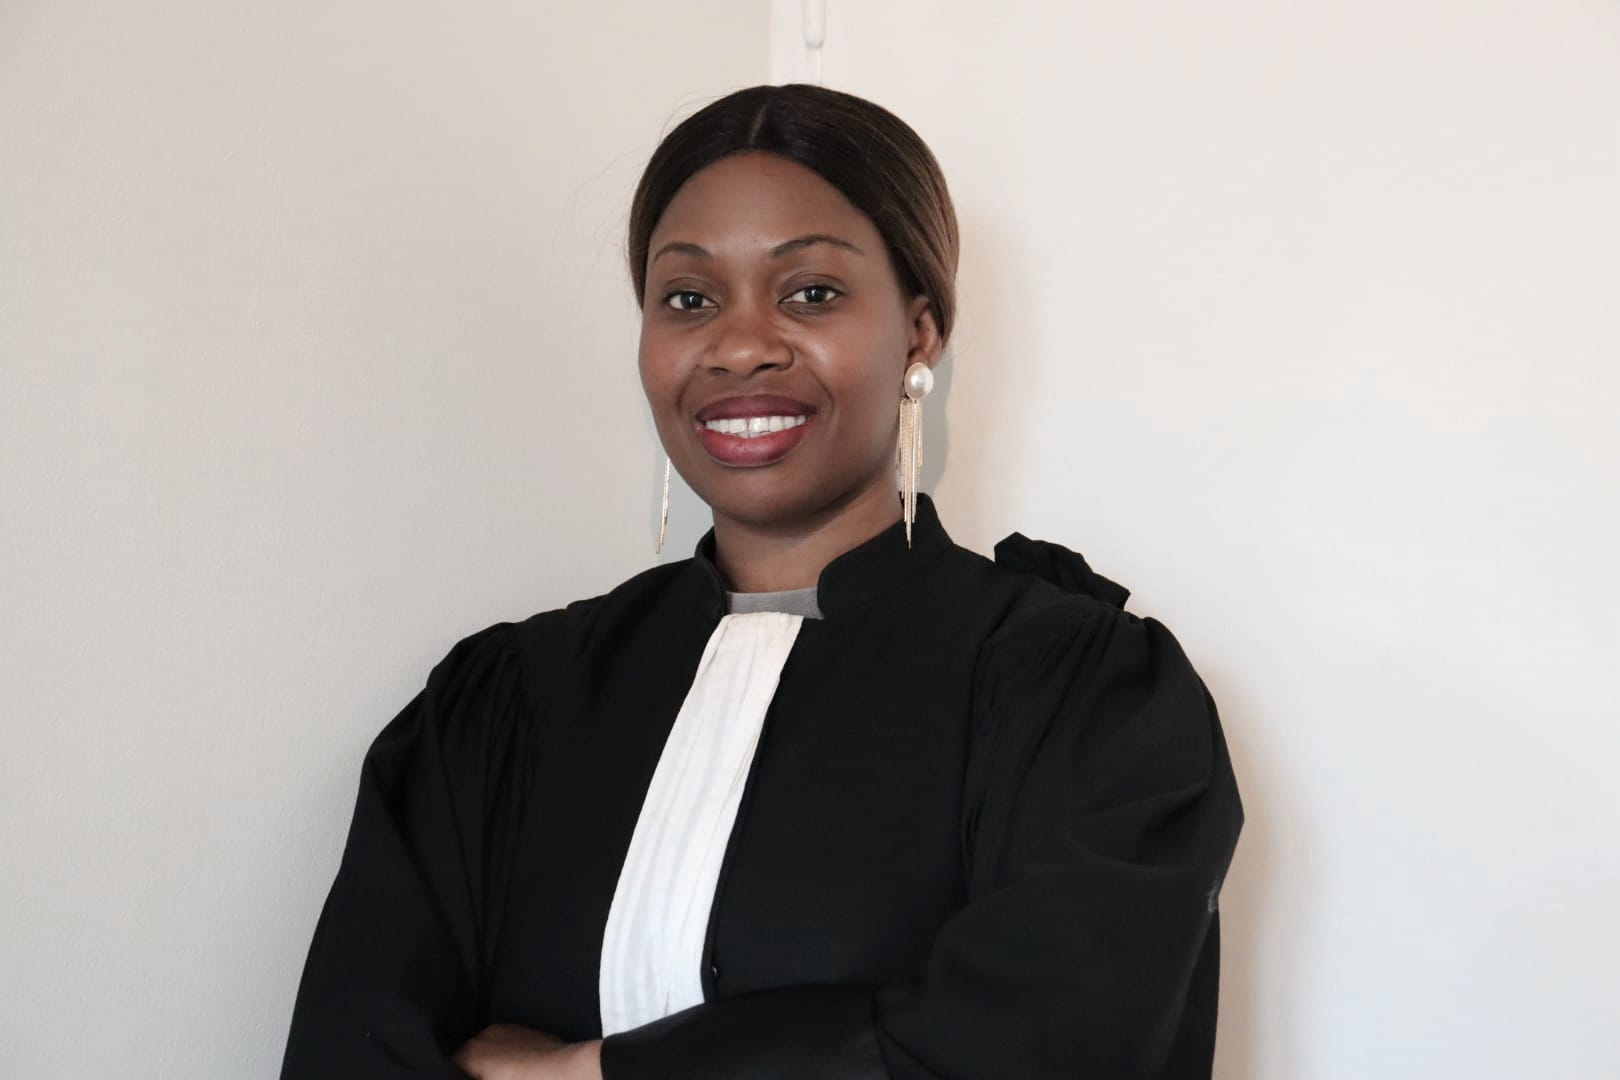
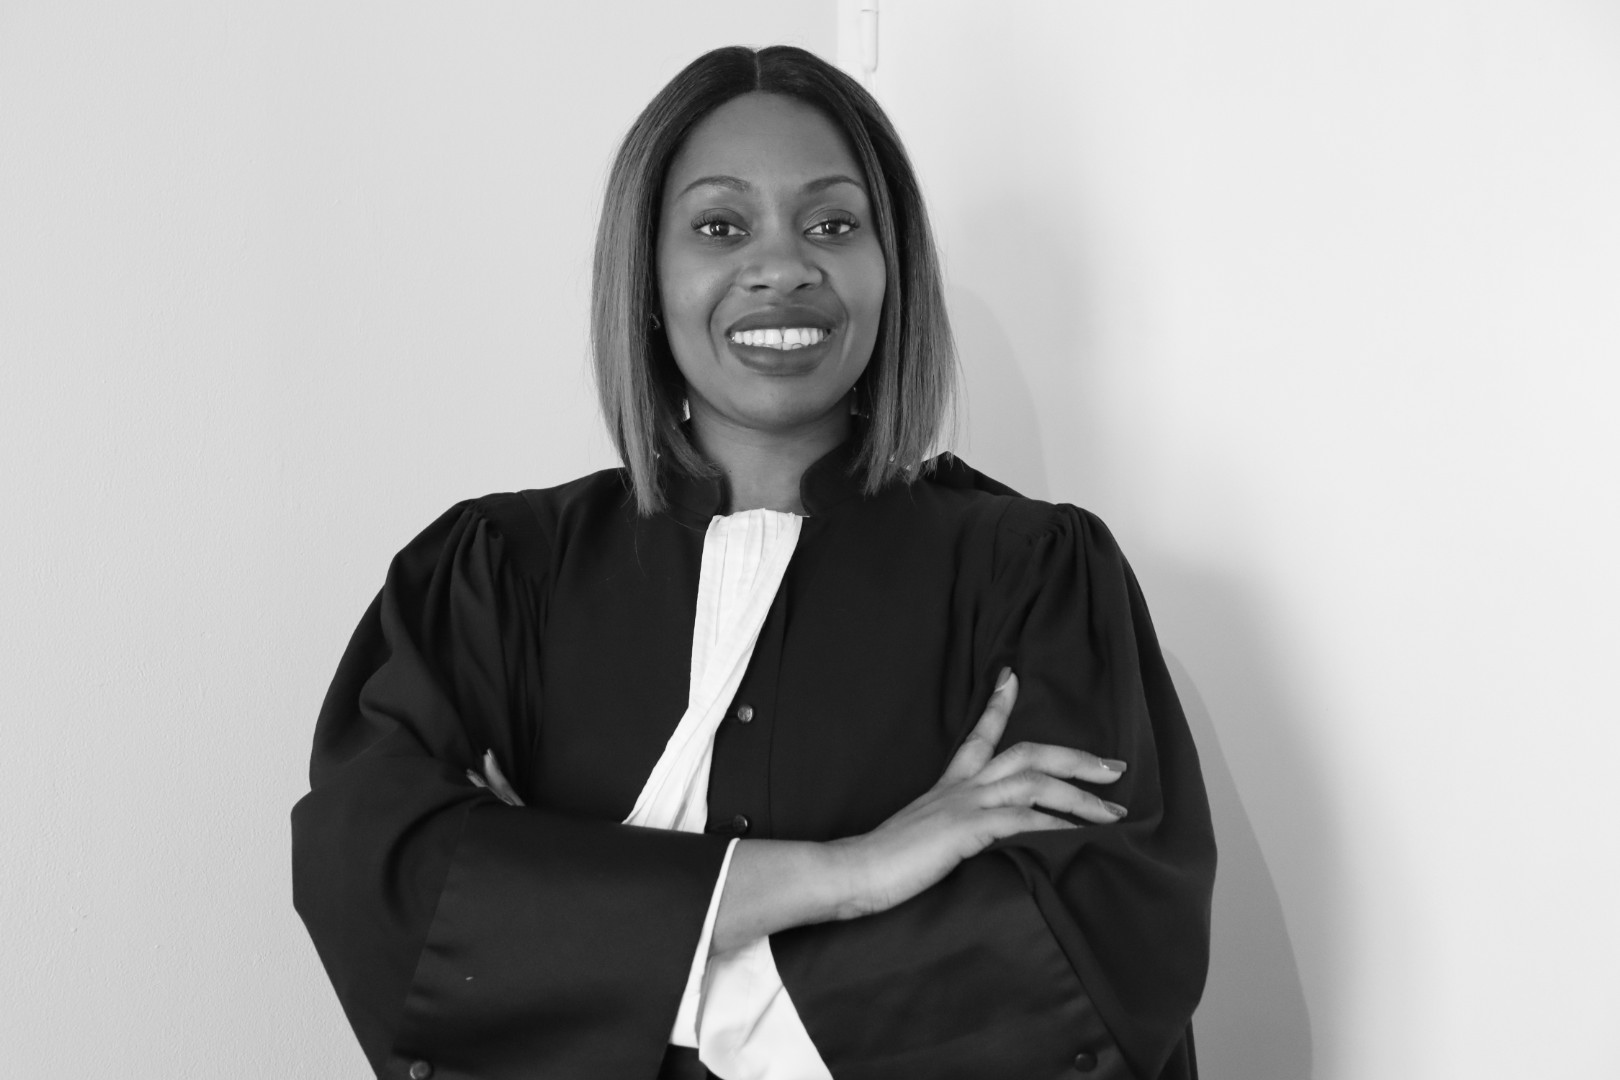
feat: update site imagery

diff --git a/src/styles/responsive/_global.scss b/src/styles/responsive/_global.scss
@@ -21,6 +21,9 @@
     margin: 0 auto;
     text-align: center;
   }
+  .hero-principal-image {
+    object-position: center top;
+  }
   .hero-principal-actions {
     justify-content: center;
   }
@@ -41,7 +44,7 @@
     margin: 0 auto;
     display: block;
     max-width: 100%;
-    transform: translateX(20px);
+    transform: none;
   }
   .deroule-steps {
     gap: var(--spacing-2xl);
@@ -156,12 +159,22 @@
   .approach-image-side {
     width: 100%;
   }
+  .image-frame {
+    max-width: 520px;
+  }
   .approach-content-side {
     width: 100%;
   }
 }
  
 @media(max-width: 767px) {
+  .hero-principal {
+    min-height: 92svh;
+  }
+  .hero-principal-container {
+    padding-top: var(--spacing-3xl);
+    padding-bottom: var(--spacing-2xl);
+  }
   .footer-wrapper {
     padding-top: var(--spacing-2xl);
   }
@@ -324,7 +337,8 @@
     line-height: 1.6;
   }
   .expertise-hero {
-    height: 50vh;
+    height: 56svh;
+    min-height: 420px;
   }
   .content-limit {
     padding: 0 var(--spacing-md);

diff --git a/src/styles/pages/_home.scss b/src/styles/pages/_home.scss
@@ -1,6 +1,6 @@
 @media(max-width: 767px) {
   .presentation-image-home {
-    width: 680px;
+    width: 100%;
   }
 }
 
@@ -9,7 +9,7 @@
   overflow: hidden;
   position: relative;
   background: var(--color-surface);
-  min-height: 100vh;
+  min-height: 100svh;
   align-items: center;
 }
  
@@ -35,6 +35,7 @@
   width: 100%;
   height: 100%;
   object-fit: cover;
+  object-position: 52% top;
 }
  
 .hero-principal-scrim {
@@ -136,7 +137,11 @@
  
 .presentation-image {
   width: 100%;
+  aspect-ratio: 4 / 3;
   display: block;
+  filter: grayscale(1);
+  object-fit: cover;
+  object-position: center;
   box-shadow: var(--shadow-level-2);
   border-radius: var(--border-radius-sm);
 }

diff --git a/src/pages/cabinet/index.jsx b/src/pages/cabinet/index.jsx
@@ -25,8 +25,8 @@ const Cabinet = () => {
         <section className="cabinet-expertise-hero expertise-hero">
           <div className="hero-media-wrapper">
             <img
-              alt="Bandeau du cabinet de Maître Pauline NGOMA MABALA"
-              src="/images/pauline-ngoma-cabinet-banner.webp"
+              alt="Espace d'accueil du cabinet de Maître Pauline NGOMA MABALA"
+              src="/images/pauline-ngoma-expertise-hero.jpeg"
               className="hero-bg-image"
             />
             <div className="expertise-hero-overlay"></div>
@@ -165,8 +165,8 @@ const Cabinet = () => {
               <div className="approach-image-side">
                 <div className="image-frame">
                   <img
-                    alt="Portrait de Maître Pauline NGOMA MABALA dans son approche d'accompagnement"
-                    src="/images/pauline-ngoma-approach.webp"
+                    alt="Espace de consultation du cabinet de Maître Pauline NGOMA MABALA"
+                    src="/images/pauline-ngoma-approach.jpeg"
                     className="approach-img"
                   />
                   <div className="frame-accent"></div>

diff --git a/src/styles/pages/_cabinet.scss b/src/styles/pages/_cabinet.scss
@@ -665,6 +665,8 @@
 }
  
 .image-frame {
+  margin: 0 auto;
+  max-width: 440px;
   padding: var(--spacing-lg);
   position: relative;
 }
@@ -693,8 +695,12 @@
  
 .approach-img {
   width: 100%;
-  height: auto;
+  aspect-ratio: 2 / 3;
+  height: 100%;
   z-index: 2;
+  display: block;
+  object-fit: cover;
+  object-position: center;
   position: relative;
   box-shadow: var(--shadow-level-3);
   border-radius: var(--border-radius-md);

diff --git a/src/pages/expertise/index.jsx b/src/pages/expertise/index.jsx
@@ -27,8 +27,8 @@ const Expertise = () => {
         <section className="expertise-hero expertise-page-hero">
           <div className="hero-media-wrapper">
             <img
-              alt="Portrait de Maître Pauline NGOMA MABALA"
-              src="/images/pauline-ngoma-hero-expertise.png"
+              alt="Espace d'accueil du cabinet de Maître Pauline NGOMA MABALA"
+              src="/images/pauline-ngoma-expertise-hero.jpeg"
               className="hero-bg-image"
             />
             <div className="expertise-hero-overlay"></div>

diff --git a/src/pages/home/index.jsx b/src/pages/home/index.jsx
@@ -84,8 +84,8 @@ const Home = () => {
             <div className="presentation-media">
               <div className="presentation-image-wrapper">
                 <img
-                  alt="Portrait de Maître Pauline NGOMA MABALA"
-                  src="/images/pauline-ngoma-expertise.png"
+                  alt="Cabinet de Maître Pauline NGOMA MABALA"
+                  src="/images/pauline-ngoma-expertise.jpeg"
                   className="presentation-image presentation-image-home"
                 />
                 <div className="presentation-image-accent"></div>

diff --git a/src/styles/pages/_contact.scss b/src/styles/pages/_contact.scss
@@ -7,6 +7,10 @@
   justify-content: center;
   background-color: var(--color-surface);
 }
+
+.contact-page-hero {
+  background-position: center center;
+}
  
 .contact-contact-container {
   width: 100%;

diff --git a/src/pages/contact/index.jsx b/src/pages/contact/index.jsx
@@ -43,7 +43,7 @@ const Contact = () => {
         <section
           className="honoraires-hero contact-page-hero"
           style={{
-            backgroundImage: `url(${process.env.PUBLIC_URL}/images/pauline-ngoma-justice.png)`,
+            backgroundImage: `url(${process.env.PUBLIC_URL}/images/pauline-ngoma-expertise-hero.jpeg)`,
           }}
         >
           <div className="honoraires-hero-overlay"></div>

diff --git a/src/pages/honoraires/index.jsx b/src/pages/honoraires/index.jsx
@@ -23,7 +23,7 @@ const Honoraires = () => {
         <section
           className="honoraires-hero honoraires-page-hero"
           style={{
-            backgroundImage: `url(${process.env.PUBLIC_URL}/images/pauline-ngoma-honoraires-banner.webp)`,
+            backgroundImage: `url(${process.env.PUBLIC_URL}/images/pauline-ngoma-expertise-hero.jpeg)`,
           }}
         >
           <div className="honoraires-hero-overlay"></div>

diff --git a/src/sections/shared/ValuesSection.js b/src/sections/shared/ValuesSection.js
@@ -52,7 +52,7 @@ const ValuesSection = ({ emphasisClasses = [] }) => {
           <div className="values-image-wrapper">
             <img
               alt="Maître Pauline NGOMA MABALA tenant un code juridique"
-              src="/images/pauline-ngoma-justice.png"
+              src="/images/pauline-ngoma-justice.jpeg"
               className="values-img"
             />
           </div>

diff --git a/src/styles/pages/_honoraires.scss b/src/styles/pages/_honoraires.scss
@@ -9,7 +9,7 @@
   background-size: cover;
   justify-content: center;
   background-image: url("https://images.pexels.com/photos/7841844/pexels-photo-7841844.jpeg?auto=compress&cs=tinysrgb&h=650&w=940");
-  background-position: center;
+  background-position: center center;
 }
 
 .honoraires-hero-overlay {

diff --git a/src/styles/pages/_expertise.scss b/src/styles/pages/_expertise.scss
@@ -31,6 +31,7 @@
   width: 100%;
   height: 100%;
   object-fit: cover;
+  object-position: center center;
 }
 
 .expertise-hero-overlay {